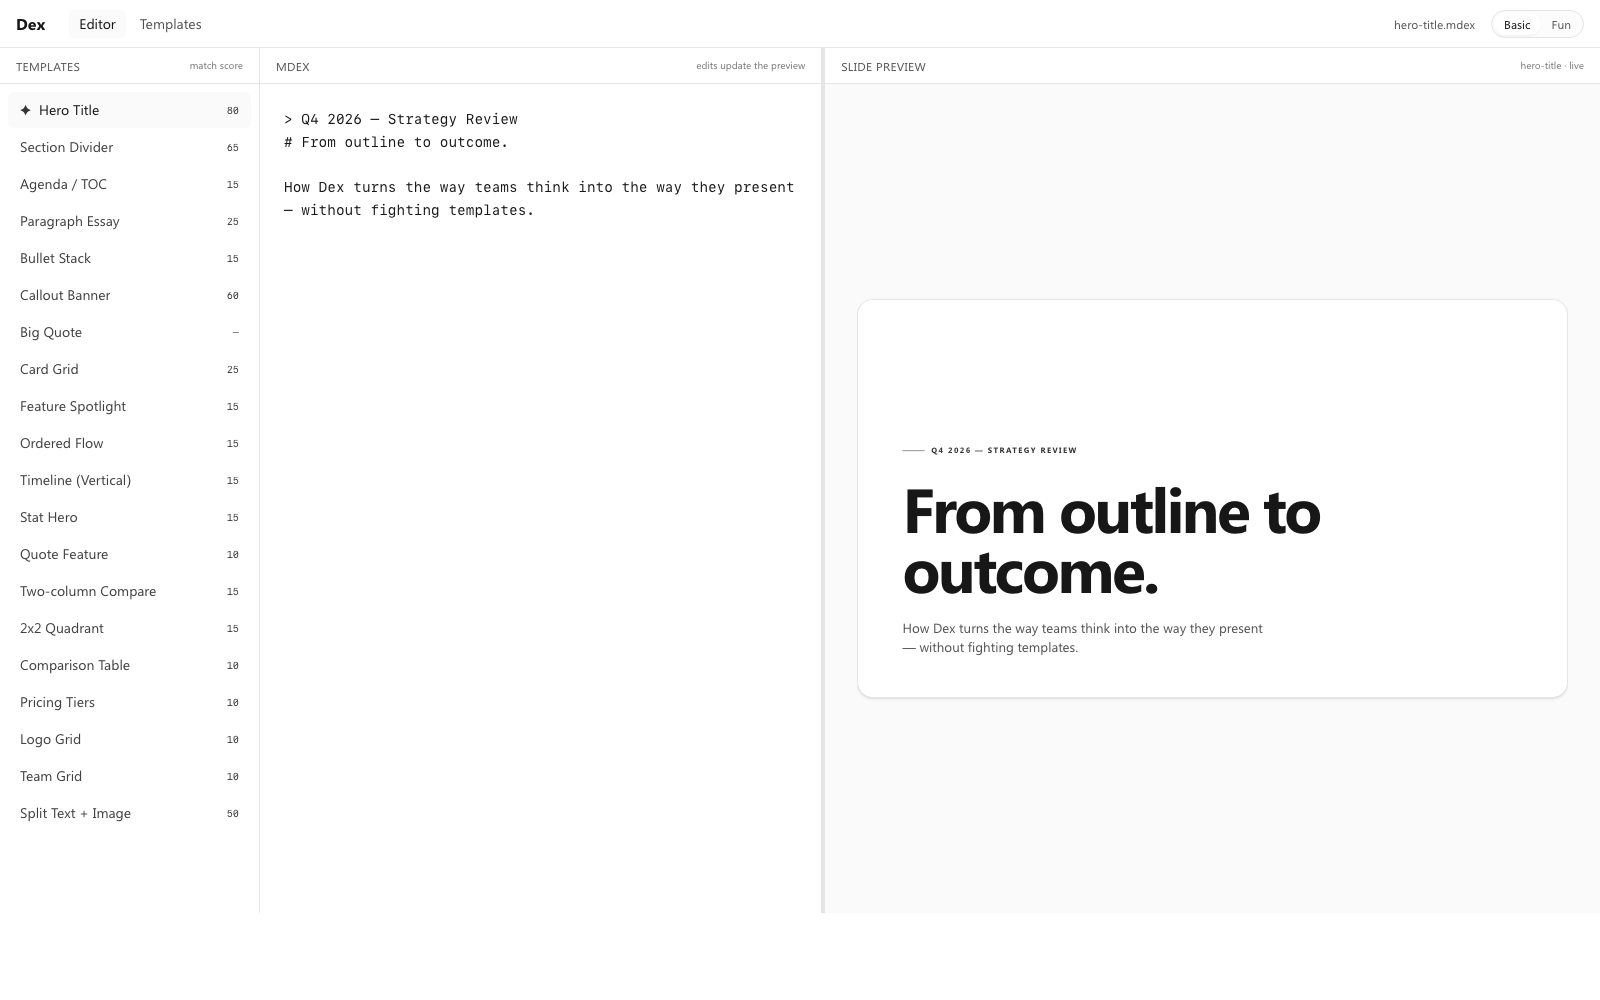
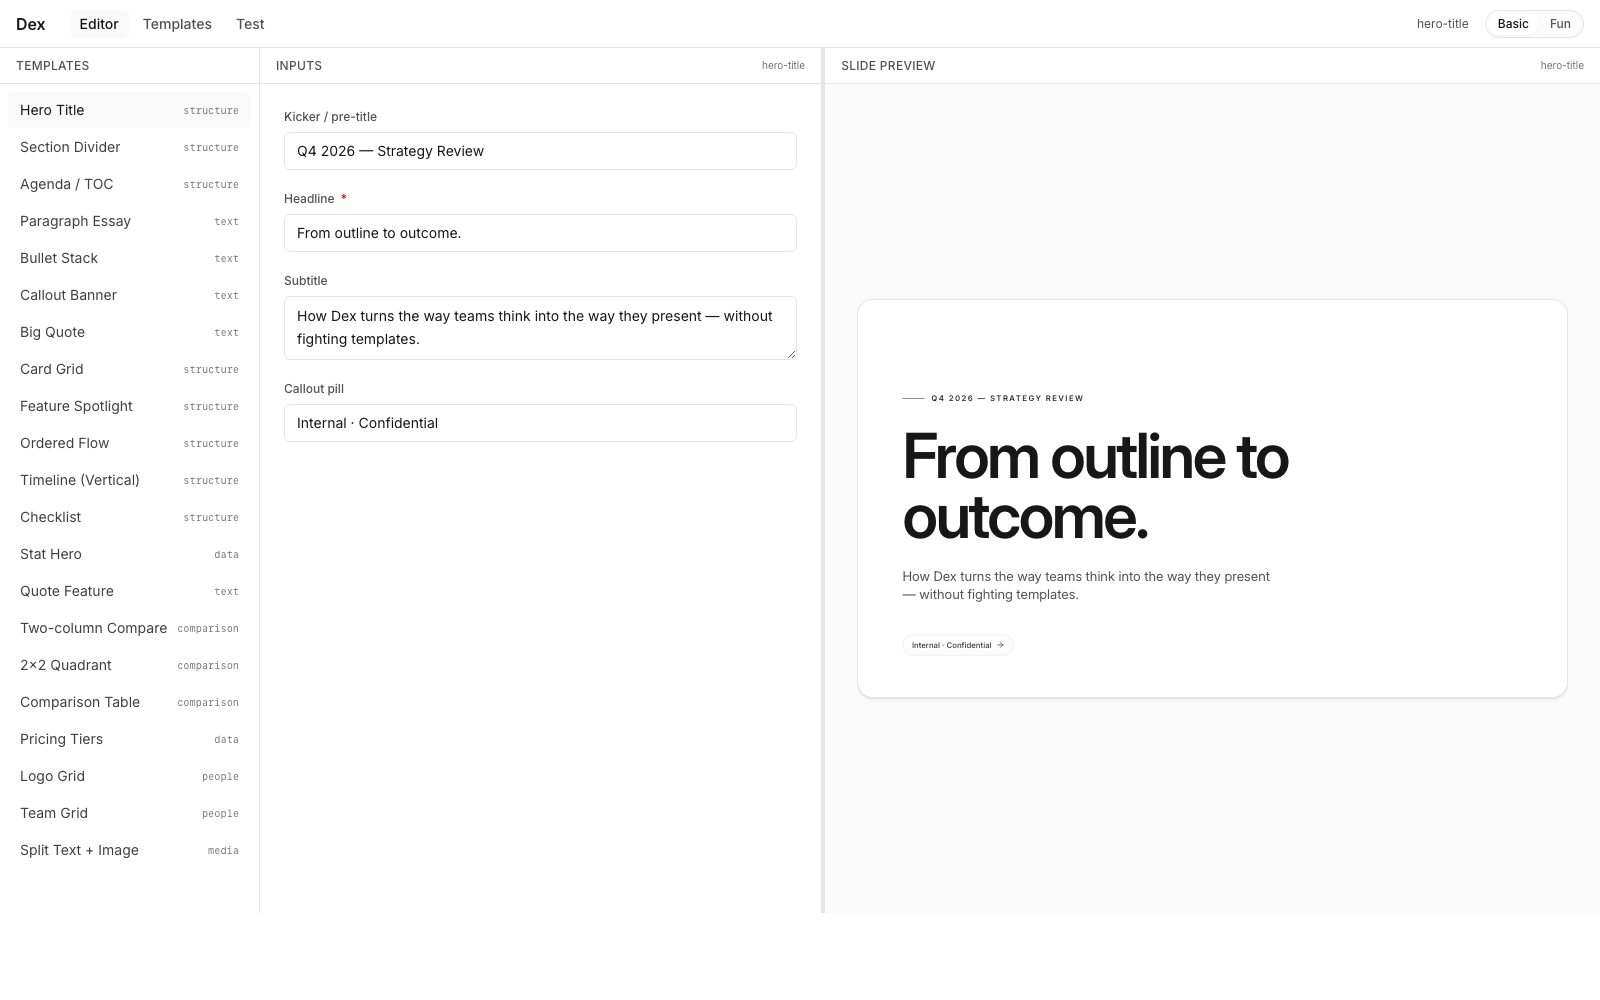
README: foreground the form-based authoring path; freeze the mdex thesis
The active surface is now form-driven: pick a template, fill the
generated form, see live preview with bidirectional caret/selection
sync. The original "all presentations are essentially markdown"
pipeline (parseMdex, adapt, matcher) is still in the repo at
src/mdex/ and the 54-slide thesis bench at /test still validates it
at ~95%, but the form path is the authoring surface today.

- New "How it works" section explains forms + contextual highlighting
- New "Architecture" section with a dataflow diagram
- "The original thesis (frozen)" section keeps the work findable
- Project structure updated for forms/, components/preview-caret/,
  21 templates, the creating-slides skill
- Vocabulary updated (Trace primitive added)
- Local port → 6173; live URL → dex-swart-ten.vercel.app
- Editor screenshot regenerated to show the form pane

diff --git a/README.md b/README.md
@@ -1,8 +1,8 @@
 # Dex
 
-A headless presentation tool. Markdown in, slides out.
+A headless presentation tool. Pick a template, fill the form, watch the slide draw itself.
 
-**Editor** — mdex on the left, rendered slide on the right, ranked template matches in the sidebar.
+**Editor** — sidebar of templates, generated form on the left, live slide preview on the right. Click any text on the slide to put a cursor in the matching input; drag to select; arrow keys move the caret in both places at once.
 
 ![Dex editor](docs/screenshot-editor.png)
 
@@ -10,40 +10,58 @@ A headless presentation tool. Markdown in, slides out.
 
 ![Template gallery](docs/screenshot-templates.png)
 
-**Test bench** — 54 real-world and synthetic slides side-by-side with their nested-list mdex, color-coded by fit (clean / strained / forced / broke). The thesis test that motivated the architecture.
+**Thesis test bench** — 54 real-world and synthetic slides side-by-side with their nested-list mdex, color-coded by fit (clean / strained / forced / broke). The original "all presentations are essentially markdown" experiment. Frozen but kept in the repo — see below.
 
 ![Thesis test bench](docs/screenshot-test.png)
 
-## Thesis
+## How it works
 
-All presentations are essentially markdown. The slide isn't the unit of thought — the *tree* is. The same outline, run through different rulesets, becomes any of a hundred visually distinct slides.
+You pick a template from the sidebar. The middle pane becomes a form generated from that template's schema — text inputs, textareas, repeating list groups with `min`/`max` constraints, toggles. The right pane renders the slide live with your values, redrawing on every keystroke.
 
-Dex tests that claim by treating mdex (a markdown superset) as the source of truth, parsing it into a structured `SlideShape`, and ranking 20 hand-built TSX templates against it deterministically — no AI, no embeddings.
+The interesting part is the **contextual highlighting**:
 
-## What's here
+- **Hover** any text on the slide → I-beam cursor.
+- **Click** at a position → the matching input gets focused and the caret lands at the *same character offset* you clicked. A simulated blinking caret appears in the slide, mirroring the input's real cursor.
+- **Drag-select** a word → the same range is selected in the input, and a translucent overlay in the slide shows the same selection.
+- **Arrow / Shift+Arrow / Home / End / Cmd+Arrow** in the input → the slide caret follows in the same frame. The input is the real focus owner; the slide overlay just observes the input's `selectionStart`/`End`.
 
-This repo is the v0 prototype. End-to-end pipeline:
+It feels like one continuous editing surface, even though the typing happens in the input.
+
+When a template has a list (cards, steps, quotes, members…), hovering any item shows a dashed `+` ghost slot at the end of the list. Click → a new item is added with placeholder text, the first input is focused, and its content is selected so your first keystroke overwrites it. The schema's `min`/`max` enforce constraints from both ends (Add disables at max, Trash disables at min).
+
+## Architecture
 
 ```
-mdex text → tokens → SlideShape → adapter → template props → ScaledSlide
-                          ↓
-                    Matcher (rule-based scorer) → ranked candidates
+form schema                                  template (TSX, pure)
+    │                                              │
+    ▼                                              ▼
+FormRenderer ──→ formProps ──────────────→ Slide rendering
+                    │                              │
+                    └──→ data-form-path on inputs  └──→ <Trace path="..."> on text leaves
+                              │                              │
+                              ▼                              ▼
+                        ─── PreviewCaretOverlay ───
+                            (selectionchange ↔ DOM rects)
 ```
 
-- **20 TSX templates** in `src/templates/` — pure layout shells, each with a co-located canonical sample. Categories: structure, text, data, comparison, people, media.
-- **Mdex pipeline**: parser (`src/mdex/parse.ts`) walks `marked.lexer()` tokens into a `SlideShape`. Per-template adapter (`src/mdex/adapt.ts`) maps the shape to props. The editor re-renders on every keystroke.
-- **Matcher** (`src/mdex/matcher.ts`): rule-based scorers, one per template. Each returns 0–100 based on how well the shape fits. The sidebar surfaces every template's score and stars (✦) the top match.
-- **Round-trip click**: clicking any element in the slide preview jumps the cursor to the matching line in the mdex source.
-- **Fixed-size slides + ScaledSlide**: every slide renders at native 1280×720 and is visually scaled (`transform: scale`) to fit whatever space the user gives the preview pane.
-- **Resizable split** between mdex and preview, persisted to localStorage.
-- **Two flavors**: `Basic` (Genesis neutral palette + Inter) and `Fun` (orange + Plus Jakarta Sans + heavier display weights). Toggle in the header. Implemented as a `data-flavor="fun"` attribute on `<html>` that overrides the brand palette and font tokens — no per-template changes.
+- **Templates** — 21 layout components in `src/templates/`. Each is a pure function of typed props with a co-located `canonical` sample. Every text leaf is wrapped with `<Trace path="...">`; decorative chrome (numbered indices, badges, dividers) is intentionally untraced.
+- **`<Trace>` primitive** — a `<span>` with `display: contents` that stamps `data-form-path` on the wrapped element without affecting layout. Click resolution is just `e.target.closest('[data-form-path]')` — deterministic, no text matching.
+- **Form schemas** — per-template entries in `src/forms/schemas.ts`, expressed as a small `FieldSchema` union (text / textarea / select / toggle / group / list). `<FormRenderer>` walks the schema and renders the matching form UI. List items use `$self` for primitive items (e.g. `bullets: string[]`).
+- **`<PreviewCaretOverlay>`** — listens to `selectionchange` + `focusin/out` + `input` on the document, reads the active input's path + selection range, finds the matching `<Trace>`, walks text nodes to find the visual rect, writes `transform: translate(...)` directly to overlay refs. No React state in the keystroke hot path.
+- **`<AddGhostSlot>`** — dashed `+` placeholder at the end of each list. Hidden by default; appears on `group/ghost` parent hover. Click calls back to the editor with the list path; the editor builds a default item from the schema and inserts it.
+
+## The original thesis (frozen)
+
+Dex started with a stronger claim: **all presentations are essentially markdown**. The repo still contains the full pipeline — `parseMdex` (a `marked.lexer()` token walker), `SlideShape` (structured representation), per-template `adapt(shape) → props` adapters, and a rule-based `Matcher` that ranks templates against any shape with no AI. The 54-slide bench at `/test` validated that claim at ~95% on a corpus of real-world decks (Airbnb pitch, UN SDG, WEF Global Risks, BCG-style reports + 20 synthetic shapes).
+
+The current authoring surface is forms instead. **Same data model, different on-ramp.** A template + props produces a slide regardless of how the props get there. The mdex code is paused, not deleted — it lives in `src/mdex/` and the test bench is still browsable at `/test`. The form path needed to land first because it tightens the feedback loop dramatically; the markdown path can come back as a sibling input mode once the matching/contextual-highlighting story is solid.
 
 ## Stack
 
 - React 19, TypeScript 5.9 strict
 - Vite 8, Tailwind CSS v4.2 with semantic design tokens
 - React Aria Components for primitives
-- `marked` for the lexer
+- `marked` for the (currently frozen) mdex lexer
 - Plus Jakarta Sans + Inter via Google Fonts
 
 ## Setup
@@ -55,61 +73,73 @@ npm run dev
 
 Opens on `http://localhost:6173`. Routes:
 
-- `/` — editor: sidebar template picker, resizable mdex pane, live slide preview
-- `/templates` — gallery of all 20 templates rendered with their canonical samples
-- `/test` — thesis test bench: 54 slides (34 scraped from real public decks + 20 synthetic shapes) shown side-by-side with their nested-list markdown
+- `/` — editor (sidebar templates · resizable form/preview · contextual highlighting)
+- `/templates` — gallery of all 21 templates with their canonical samples
+- `/test` — the 54-slide thesis test bench (frozen)
 
 ## Project structure
 
 ```
 src/
 ├── templates/
-│   ├── _primitives/         # Slide, ScaledSlide, Kicker, Title, Subtitle, Body, Chip
-│   ├── <id>/index.tsx       # 20 templates
+│   ├── _primitives/         # Slide, ScaledSlide, Kicker, Title, Trace, AddGhostSlot, ...
+│   ├── <id>/index.tsx       # 21 templates
 │   └── index.ts             # registry: id, name, category, component, canonical
-├── mdex/
-│   ├── types.ts             # SlideShape interface
-│   ├── parse.ts             # marked lexer → SlideShape
-│   ├── adapt.ts             # 20 per-template adapters
-│   └── matcher.ts           # rule-based scorers, matchAll/bestMatch
-├── pages/
-│   ├── home-screen.tsx      # editor with sidebar + split mdex/preview
-│   └── template-gallery.tsx
+├── forms/
+│   ├── schema.ts            # FieldSchema union + path helpers (get/set/listInsert)
+│   ├── schemas.ts           # per-template form schemas
+│   └── form-renderer.tsx    # generic form generator with min/max, $self, list pool
 ├── components/
 │   ├── nav/header.tsx       # router nav + Basic/Fun flavor toggle
-│   └── split-pane/          # pointer-driven resizable split
+│   ├── split-pane/          # pointer-driven resizable split
+│   └── preview-caret/       # <PreviewCaretOverlay> — caret + selection sync
+├── mdex/                    # FROZEN: parseMdex, SlideShape, adapt, matcher
+├── pages/
+│   ├── home-screen.tsx      # editor (sidebar + form + preview + caret overlay)
+│   ├── template-gallery.tsx
+│   └── test-bench.tsx       # iframes the static thesis-test viewer
 ├── providers/
 │   └── flavor-provider.tsx  # basic | fun, persisted to localStorage
 └── styles/
-    ├── globals.css
+    ├── globals.css          # cursor: text on traced spans; caret-blink keyframes
     ├── theme.css            # Genesis tokens (neutral)
-    ├── flavors.css          # [data-flavor="fun"] overrides
+    ├── flavors.css          # [data-flavor="fun"] orange + Plus Jakarta overrides
     └── typography.css
-```
 
-Plus `experiment-decks/` — the 32-slide thesis test (real public PDFs + 20 synthetic shapes) that motivated the architecture. See `experiment-decks/RESULTS.md` and `experiment-decks/comparison.html`.
+.claude/skills/creating-slides/SKILL.md   # project skill: how to add a new template
+public/test-bench/                         # static viewer for the 54-slide thesis test
+experiment-decks/                          # source PDFs + RESULTS.md from the thesis test
+```
 
 ## Vocabulary
 
-- **mdex** — Dex's markdown superset (currently plain markdown; future: directives for components, charts, etc.)
-- **f100** — the curated 100-template library this becomes (currently 20)
-- **b100** — the curated benchmark corpus used to score rulesets
-- **ruleset** — versioned bundle of paginator + Matcher + extensions
-- **flex param** — per-template flexibility lever (zoom, hide-decoration, etc.) — used by the Matcher to score "fit" as `Fit (X of N)`
-- **canonical.mdex** — the proof-of-validity input every template ships with
+- **Trace** — a wrapper that stamps `data-form-path` on a slide leaf for contextual highlighting; renders as a `display: contents` span (no layout effect).
+- **f100** — the curated TSX template library this becomes (currently 21).
+- **b100** — the curated benchmark mdex corpus used to score rulesets (planned; the existing 54-slide bench is the proof of concept).
+- **ruleset** — versioned bundle of paginator + Matcher + extensions (currently a single in-tree default; frozen with the rest of the mdex pipeline).
+- **flex param** — per-template flexibility lever (zoom, hide-decoration, etc.) used by the Matcher to score "fit" as `Fit (X of N)` (planned).
+- **canonical** — the proof-of-validity sample every template ships with; doubles as gallery thumbnail and form initial state.
 
 ## Status
 
-v0. The pipeline works end-to-end. Not yet shipped:
+v0, live at https://dex-swart-ten.vercel.app/.
 
-- Notion-like block editor (currently a textarea)
-- Persisted presentations (currently in-memory, single deck)
+Shipped:
+- 21 templates with form schemas, contextual highlighting, ghost-add affordances
+- Live preview ↔ form bidirectional caret/selection sync
+- Two flavors (Basic / Fun), persisted
+- Resizable editor split, scaled-slide preview
+- Test bench at `/test` validating the original thesis at ~95%
+
+Not yet shipped:
+- Notion-like block editor (currently semantic form inputs)
+- Persisted presentations (single in-memory deck)
 - Flex params threaded through the Matcher score
-- Image directives in mdex (`![bg]`, `![hero]`)
+- Image directives
 - Detach / reattach for free-form layouts
-- Theme tokens beyond Basic + Fun
-- The full f100; the curated b100; ruleset comparison
-- Full source-position tracking (round-trip click is heuristic for now)
+- More flavors / theme tokens
+- Full f100, curated b100, ruleset comparison
+- The mdex path reactivated as a sibling on-ramp
 
 ## License
 